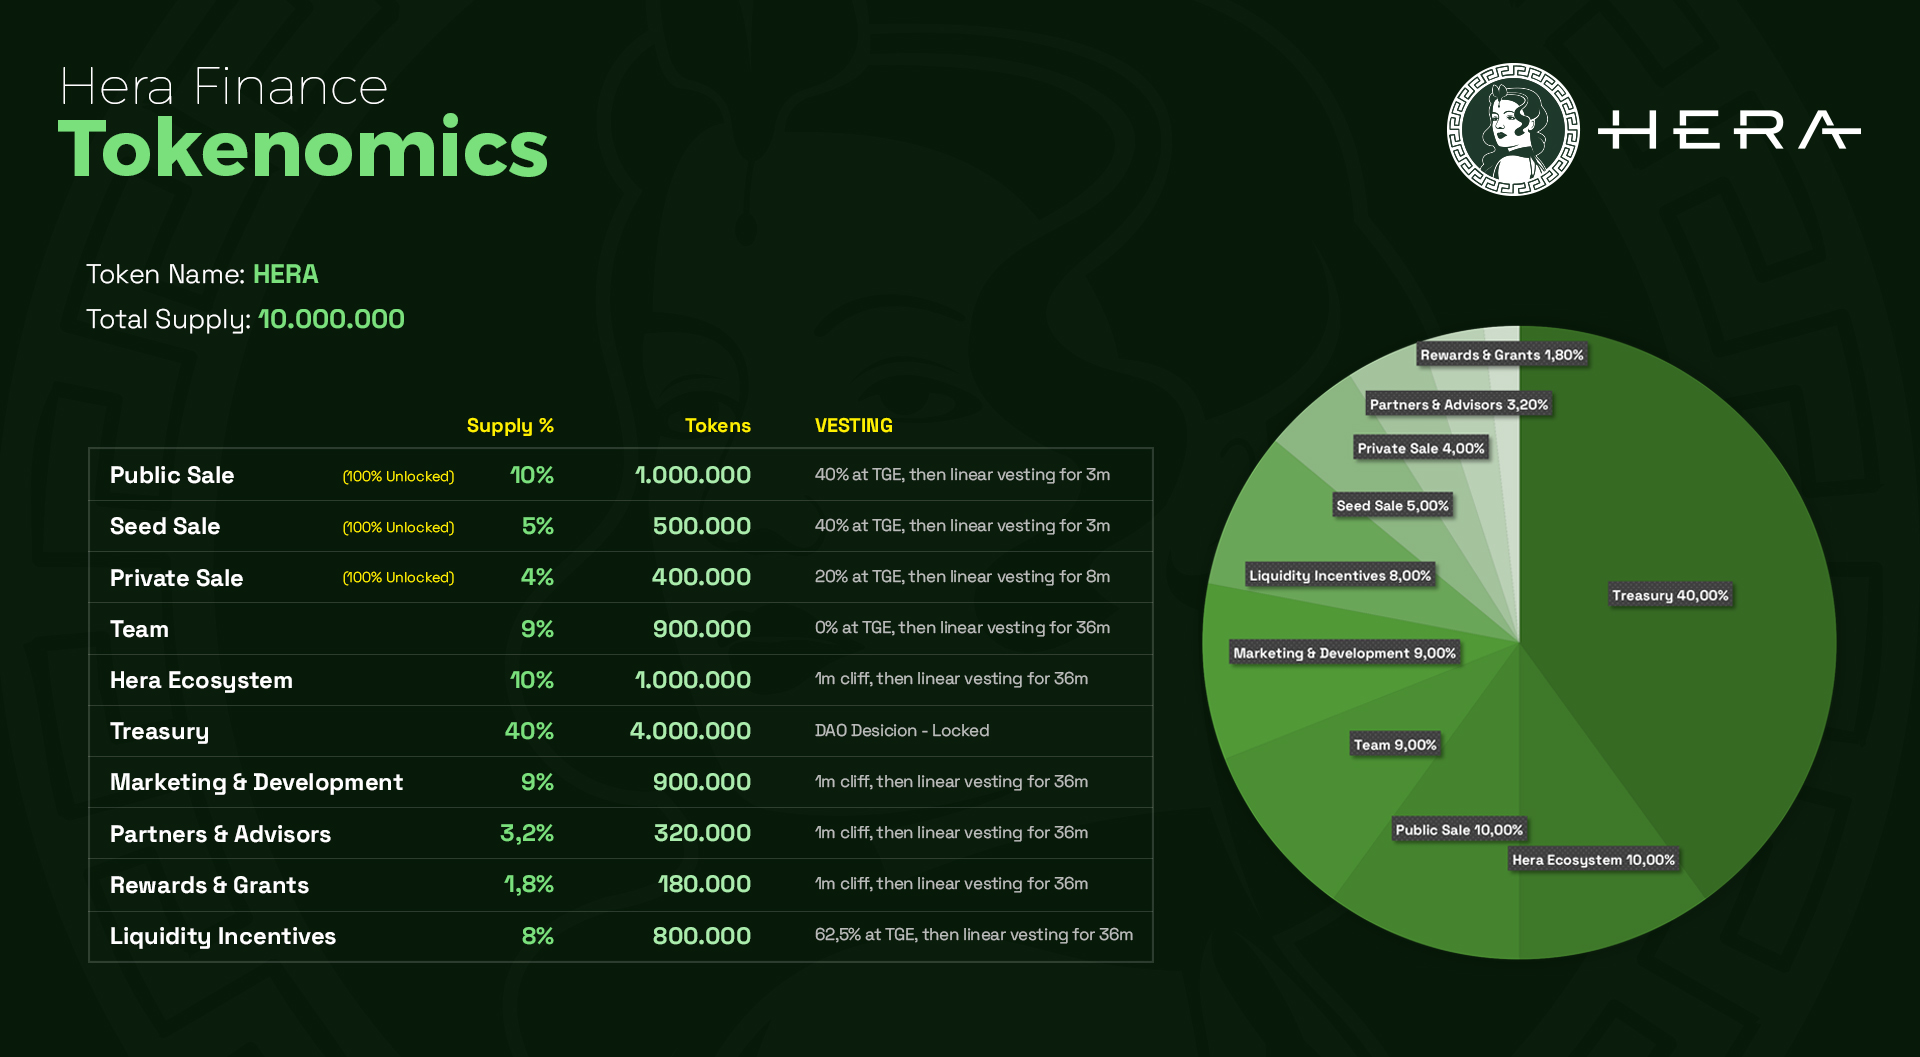
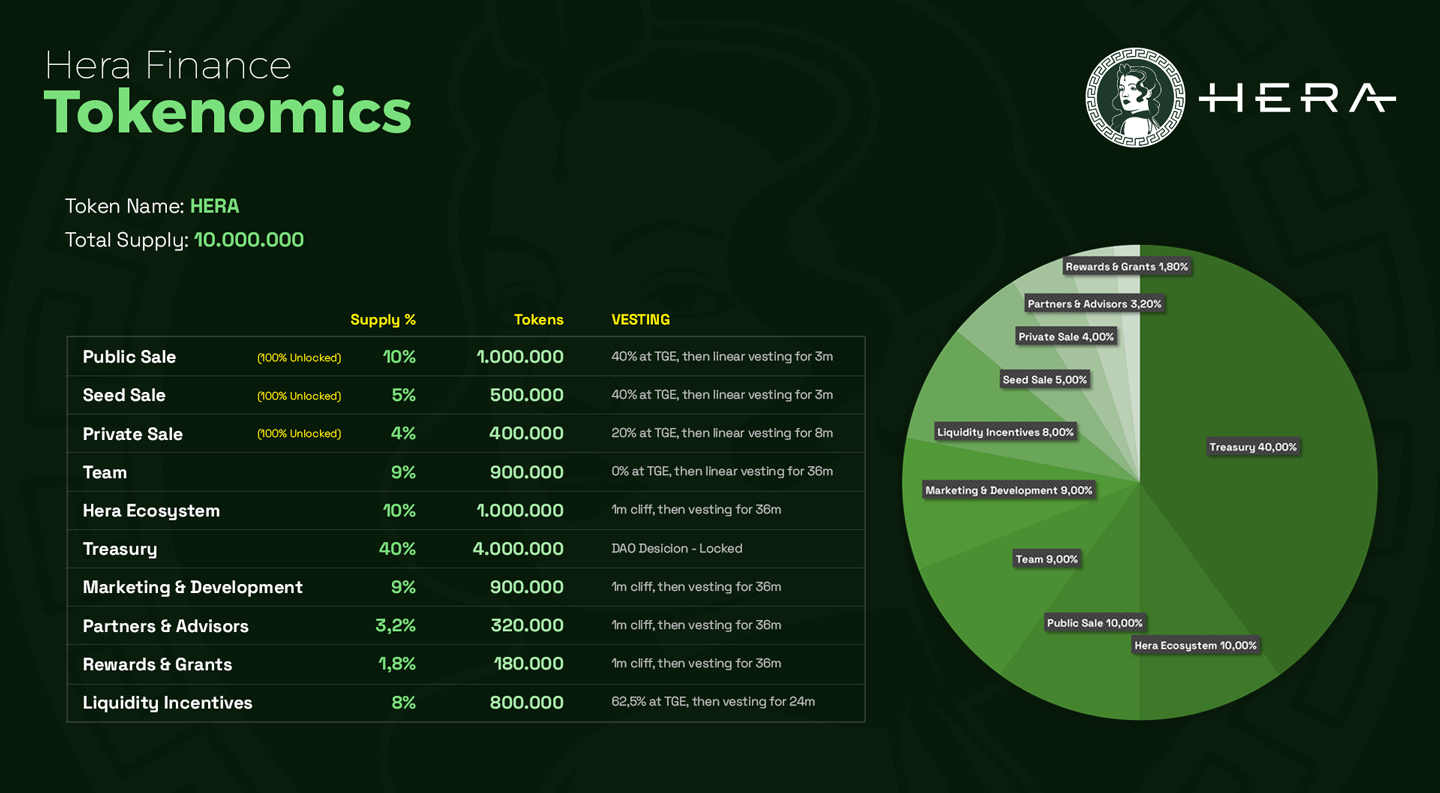
GitBook: [#135] No subject

diff --git a/hera-token/tokenomics.md b/hera-token/tokenomics.md
@@ -17,12 +17,12 @@ coverY: 0
 | Seed Sale               |   5,00%  |   500.000  | 40% at TGE, then linear vesting for 3 months |
 | Private Sale            |   4,00%  |   400.000  | 20% at TGE, then linear vesting for 8 months |
 | Team                    |   9,00%  |   900.000  | 0% at TGE, then linear vesting for 36 months |
-| Hera Ecosystem          |  10,00%  |  1.000.000 | 1m cliff, then linear vesting for 36m        |
+| Hera Ecosystem          |  10,00%  |  1.000.000 | 1m cliff, then vesting for 36m               |
 | Treasury                |  40,00%  |  4.000.000 | DAO Desicion - Locked                        |
-| Marketing & Development |   9,00%  |   900.000  | 1m cliff, then linear vesting for 36m        |
-| Partners & Advisors     |   3,20%  |   320.000  | 1m cliff, then linear vesting for 36m        |
-| Rewards & Grants        |   1,80%  |   180.000  | 1m cliff, then linear vesting for 36m        |
-| Liquidity Incentives    |   8,00%  |   800.000  | 62,5% at TGE, then linear vesting for 36m    |
+| Marketing & Development |   9,00%  |   900.000  | 1m cliff, then vesting for 36m               |
+| Partners & Advisors     |   3,20%  |   320.000  | 1m cliff, then vesting for 36m               |
+| Rewards & Grants        |   1,80%  |   180.000  | 1m cliff, then vesting for 36m               |
+| Liquidity Incentives    |   8,00%  |   800.000  | 62,5% at TGE, then vesting for 24m           |
 | Total:                  |  100,00% | 10.000.000 |                                              |
 
 ####
